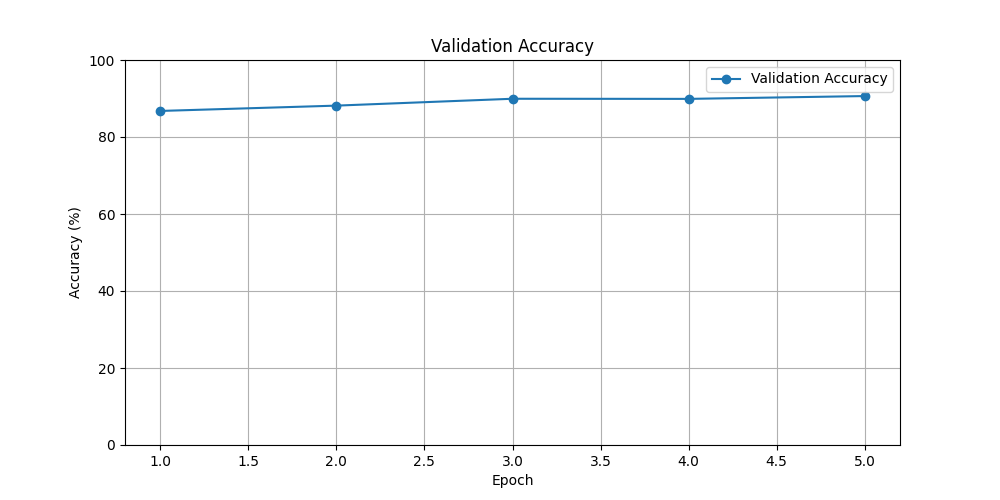
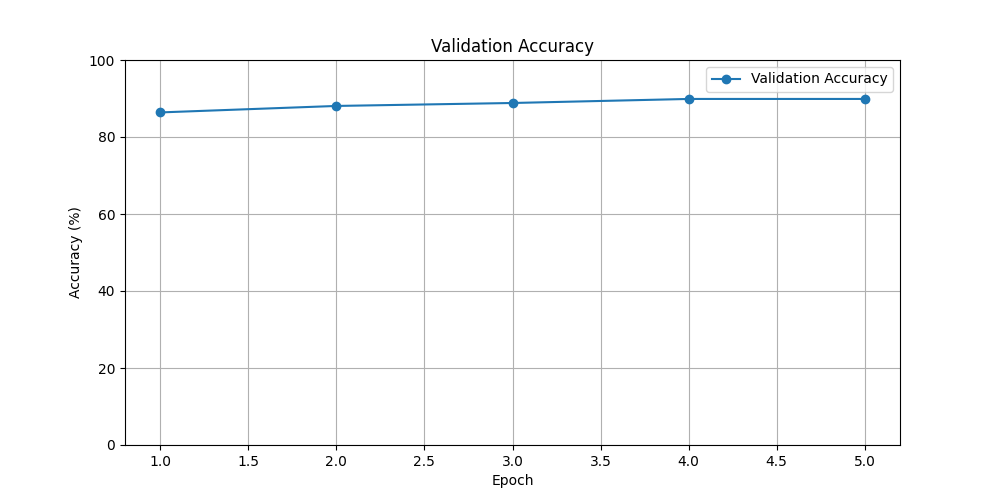
Add final CNN test evaluation and error analysis

Changed region(s): [[0.341, 0.18, 0.682, 0.24], [0.713, 0.18, 0.868, 0.21], [0.155, 0.21, 0.31, 0.24]]

diff --git a/src/train.py b/src/train.py
@@ -4,10 +4,12 @@ import os
 
 from src.model import FashionMNISTModel , FashionMNISTCNN
 from src.data import train_loader, test_loader, val_loader
-from src.evaluate import evaluate, collect_predictions, plot_misclassified_examples
+from src.evaluate import evaluate, collect_predictions, plot_misclassified_examples, calculate_per_class_accuracy
 import matplotlib.pyplot as plt
 from sklearn.metrics import confusion_matrix
 import seaborn as sns
+
+torch.manual_seed(42)
 
 class_names = [
     'T-shirt/top',
@@ -25,7 +27,7 @@ class_names = [
 device = torch.device("cuda" if torch.cuda.is_available() else "cpu")
 model = FashionMNISTCNN().to(device)
 criterion = nn.CrossEntropyLoss()
-optimizer = torch.optim.Adam(model.parameters(),lr=0.001)
+optimizer = torch.optim.Adam(model.parameters(),lr=0.001, weight_decay=1e-4)
 
 os.makedirs("outputs/models", exist_ok=True)
 
@@ -130,3 +132,4 @@ plt.close()
 print(f"Best epoch: {best_epoch}")
 print(f"Best validation loss: {best_val_loss:.4f}")
 print(f"Best validation accuracy: {best_val_acc:.2f}%")
+class_accuracies = calculate_per_class_accuracy(cm, class_names)

diff --git a/src/test.py b/src/test.py
@@ -1,0 +1,43 @@
+import torch
+import torch.nn as nn
+
+from src.model import FashionMNISTCNN
+from src.data import test_loader
+from src.evaluate import evaluate, collect_predictions, calculate_per_class_accuracy
+from sklearn.metrics import confusion_matrix
+
+class_names = [
+    'T-shirt/top',
+    'Trouser',
+    'Pullover',
+    'Dress',
+    'Coat',
+    'Sandal',
+    'Shirt',
+    'Sneaker',
+    'Bag',
+    'Ankle boot'
+]
+
+criterion = nn.CrossEntropyLoss()
+model = FashionMNISTCNN()
+
+state_dict = torch.load(
+    "outputs/models/best_cnn_baseline.pth",
+    weights_only=True
+)
+
+model.load_state_dict(state_dict)
+
+test_loss, test_accuracy = evaluate(
+    model,
+    test_loader,
+    criterion
+)
+
+print(f"Final test loss: {test_loss:.4f}")
+print(f"Final test accuracy: {test_accuracy:.2f}%")
+
+true_labels, predicted_labels = collect_predictions(model, test_loader)
+cm = confusion_matrix(true_labels, predicted_labels)
+class_accuracies = calculate_per_class_accuracy(cm, class_names)

diff --git a/src/evaluate.py b/src/evaluate.py
@@ -102,3 +102,15 @@ def plot_misclassified_examples(
 
     print(f"Saved misclassified examples to: {save_path}")
 
+def calculate_per_class_accuracy(cm, class_names):
+    class_accuracies = []
+
+    for i, class_name in enumerate(class_names):
+        correct = cm[i, i]
+        total = cm[i].sum()
+        accuracy = 100 * correct / total
+
+        class_accuracies.append(accuracy)
+        print(f"{class_name}: {accuracy:.2f}%")
+
+    return class_accuracies

diff --git a/src/data.py b/src/data.py
@@ -27,6 +27,7 @@ train_data, val_data = random_split(
     generator=generator
 )
 
+train_generator = torch.Generator().manual_seed(42)
 val_loader = DataLoader(
     val_data,
     batch_size=64,
@@ -36,7 +37,8 @@ val_loader = DataLoader(
 train_loader = DataLoader(
     train_data,          
     batch_size=64,       
-    shuffle=True         
+    shuffle=True,
+    generator=train_generator       
 )
 test_loader = DataLoader(
     test_data,          
